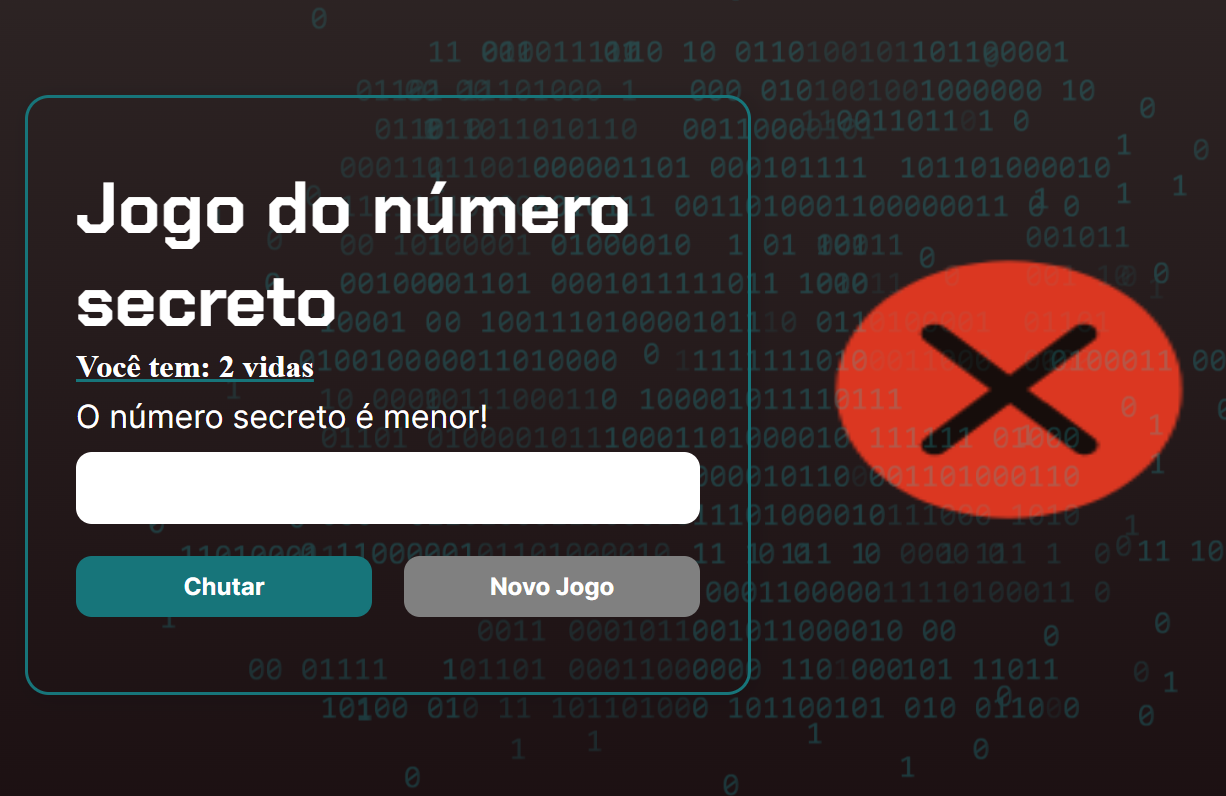
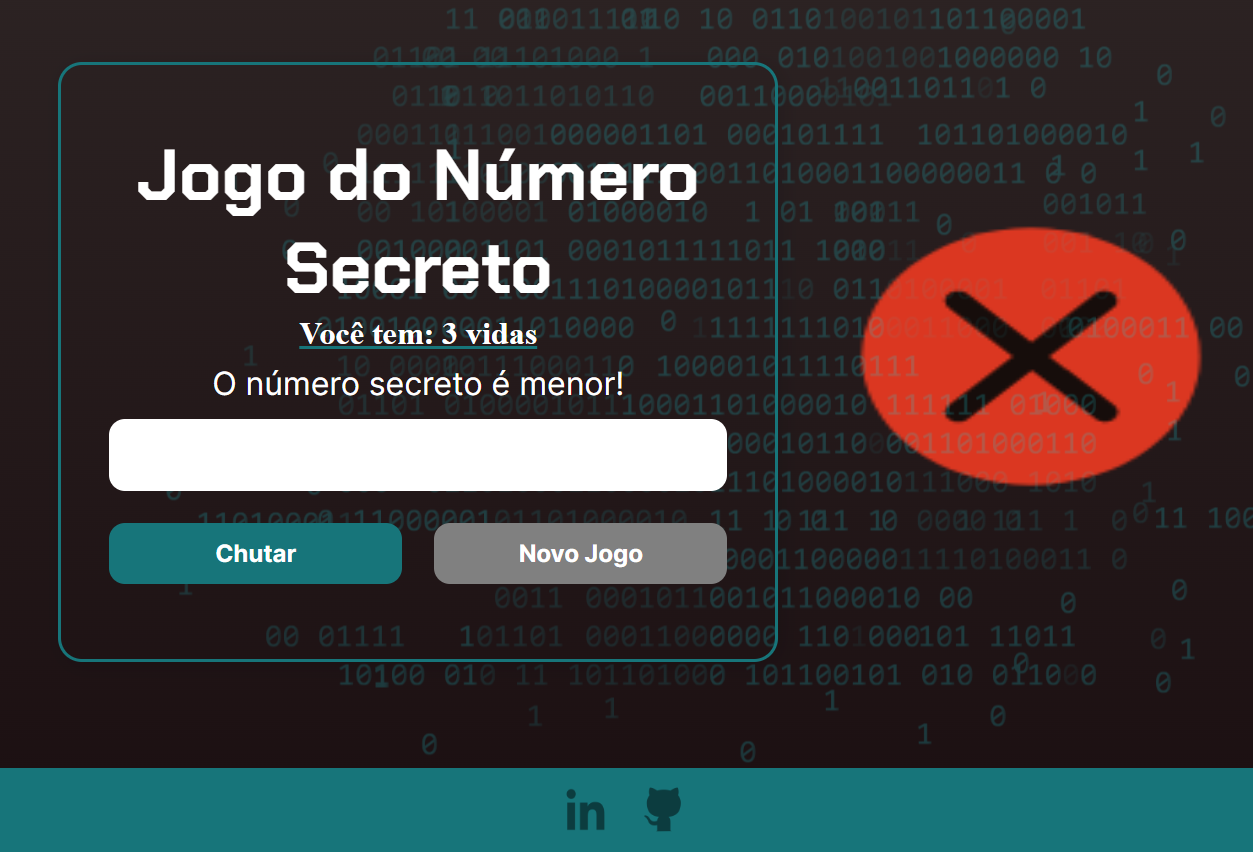
Realinhamento texto, adicionando barra de mídia social

diff --git a/css/style.css b/css/style.css
@@ -82,6 +82,7 @@ button:disabled{
 }
 .container_text{
     margin: 16px 0 16px 0;
+    text-align: center;
 }
 .container_text_blue{
     color: var(--button_border_color);
@@ -142,15 +143,51 @@ button{
     font-size: 32px;
 }
 
+.social{
+    display: flex;
+    justify-content: space-around;
+    background-color: var(--button_border_color);
+    align-items: center;
+    width: 100%;
+    height: 10vh;
+    margin-top: 900px;
+    position: absolute;
+   
+}
+.social__media{
+    display: flex;
+    width: 40%;
+    justify-content: center;
+    gap: 25px;
+}
+.social__media__linkedin,
+.social__media__github{
+    width: 90%;
+    height: 6vh;
+   
+}
+
+.social__media__linkedin:hover,
+.social__media__github:hover{
+    width: 90%;
+    padding-bottom: 4px;
+    border-bottom: #0C3C3F solid 2px;
+}
+
+
 @media (max-width: 860px){
     body{
-        width: 110%;
+        width: 120%;
+        height: 790px;
+        background: #1C1012;
+       
     }
-    .container{
-        height: 650px;
-        text-align: center; 
-        
+    body::before{
+        background-image: url("/img/code.png");
+        background-repeat: no-repeat;
+       
     }
+  
     .container_information{
        
         padding: 110px 0px 70px 0px;
@@ -159,6 +196,7 @@ button{
         width: 90%;
         height: 18px;
         padding: 24px 18px;
+        margin-left: 5%;
     }
     .container_buttons{
         display: inline-block;
@@ -171,7 +209,6 @@ button{
     }
     h1{
         font-size: 32px ;
-        
     }
     
     .text_life{
@@ -191,6 +228,9 @@ button{
         width: 60%;
         height: 60%;
     }
+    .social{
+        width: 415px;
+        margin-top: 750px;
+    }
     
- 
 }

diff --git a/index.html b/index.html
@@ -30,8 +30,15 @@
         </div>
     </div>
     <div class="sideImage">
-        <img class="sideImage_image"   src="/img/code.png" alt="Números">
+        <img class="sideImage_image"   src="/img/code.png" alt="Números_imagem resultado">
     </div>
+
+    <footer class="social">
+        <div class="social__media">
+            <a href="https://www.linkedin.com/in/tuliusalves/"><img class="social__media__linkedin" src="/img/linkedin.png" alt="ícone do linkedin"></a>
+             <a href="https://www.github.com/tuliusalves"><img class="social__media__github" src="/img/github.png" alt="ícone do github"> </a>
+        </div>
+    </footer>
 
     <script src="app.js"></script>
 </body>

diff --git a/app.js b/app.js
@@ -23,7 +23,7 @@ function fimDeJogo() {
 
 }
 function exibirMensagemInicial() {
-    exibirTextoNaTela('h1', 'Jogo do número secreto');
+    exibirTextoNaTela('h1', 'Jogo do Número Secreto');
     exibirVida();
     exibirTextoNaTela('p', 'Escolha um número entre 1 e 10');
 }
